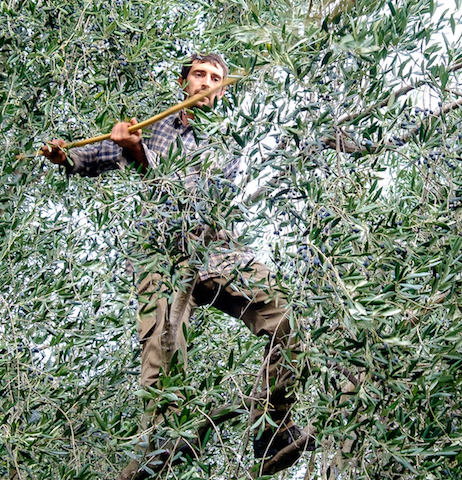
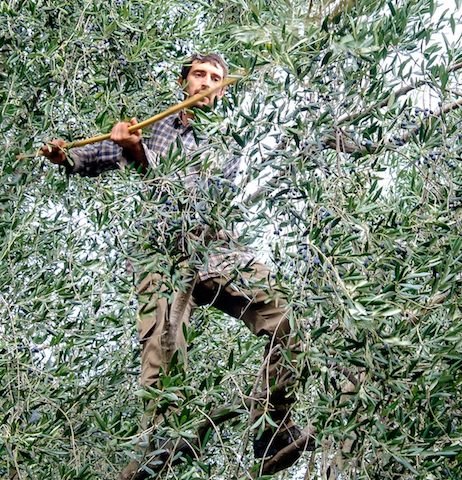
Cut image weight ~40% (16.1MB -> 9.7MB) and add lazy-loading
Photos saved as PNG (card-porceddu, card-pellegrinaggio, moment-11, etc.)
were 5-10x larger than needed for no visual benefit — converted the 9
opaque photo PNGs to quality-82 JPEG. Also re-encoded 10 existing JPGs
that were oversized for their dimensions (card-foraging was 551KB at
768x432), keeping only conversions that actually shrank the file, and
downsized anything wider than 1600px. Added loading="lazy" to the
itinerary day-photos. Verified visually (Playwright, desktop + mobile)
and via local render that nothing broke and no image regressed in
quality.

Faster mobile load matters directly for conversion on a page this
photo-heavy, especially since 0/8 spots are booked and traffic is about
to increase from outreach.

diff --git a/index.html b/index.html
@@ -307,14 +307,14 @@
         <div class="category-header"><h3>Artisan &amp; Food</h3><div class="rule"></div></div>
         <div class="activity-grid">
 
-          <div class="activity-card has-photo" style="--photo:url('images/card-charcuterie.png')" data-activity="Charcuterie Tasting with Emiliano" onclick="toggleCard(this)">
+          <div class="activity-card has-photo" style="--photo:url('images/card-charcuterie.jpg')" data-activity="Charcuterie Tasting with Emiliano" onclick="toggleCard(this)">
             <div class="icon-badge"><svg width="20" height="20"><use href="#icon-flask"/></svg></div>
             <h4>Charcuterie Tasting</h4>
             <p>Taste local, homemade salumi and cured meats with Emiliano, made the traditional way, right here in Blera.</p>
             <span class="season">Year-round</span>
           </div>
 
-          <div class="activity-card has-photo" style="--photo:url('images/moment-11.png')" data-activity="Cheese Making or Tasting with Davide (Civitella Cesi)" onclick="toggleCard(this)">
+          <div class="activity-card has-photo" style="--photo:url('images/moment-11.jpg')" data-activity="Cheese Making or Tasting with Davide (Civitella Cesi)" onclick="toggleCard(this)">
             <div class="icon-badge"><svg width="20" height="20"><use href="#icon-flask"/></svg></div>
             <h4>Cheese Making or Tasting</h4>
             <p>With Davide Paolocci in Civitella Cesi, go hands-on and make your own cheese, or keep it easy with a guided tasting. Your call on how involved you want to be.</p>
@@ -412,7 +412,7 @@
         <div class="category-header"><h3>Festivals &amp; Sagre</h3><div class="rule"></div></div>
         <div class="activity-grid">
 
-          <div class="activity-card has-photo" style="--photo:url('images/card-pellegrinaggio.png')" data-activity="Il Pellegrinaggio (Easter Monday)" onclick="toggleCard(this)">
+          <div class="activity-card has-photo" style="--photo:url('images/card-pellegrinaggio.jpg')" data-activity="Il Pellegrinaggio (Easter Monday)" onclick="toggleCard(this)">
             <div class="icon-badge"><svg width="20" height="20"><use href="#icon-tombpath"/></svg></div>
             <h4>Il Pellegrinaggio</h4>
             <p>A springtime procession through Piazza Santa Maria on Easter Monday, one of Blera's oldest living traditions.</p>
@@ -433,7 +433,7 @@
             <span class="season">Jun 16 to 18</span>
           </div>
 
-          <div class="activity-card has-photo" style="--photo:url('images/card-porceddu.png')" data-activity="Sagra della Coda alla Vaccinara e del Porceddu" onclick="toggleCard(this)">
+          <div class="activity-card has-photo" style="--photo:url('images/card-porceddu.jpg')" data-activity="Sagra della Coda alla Vaccinara e del Porceddu" onclick="toggleCard(this)">
             <div class="icon-badge"><svg width="20" height="20"><use href="#icon-bonfire"/></svg></div>
             <h4>Coda alla Vaccinara &amp; Porceddu</h4>
             <p>A weekend built around two hearty traditions: Roman oxtail stew and Sardinian roast suckling pig, cooked for the whole town.</p>
@@ -447,7 +447,7 @@
             <span class="season">Aug 2 to 4</span>
           </div>
 
-          <div class="activity-card has-photo" style="--photo:url('images/card-strattotartufo.png')" data-activity="Sagra dello Stratto al Tartufo e dello Gnocco al Castrato" onclick="toggleCard(this)">
+          <div class="activity-card has-photo" style="--photo:url('images/card-strattotartufo.jpg')" data-activity="Sagra dello Stratto al Tartufo e dello Gnocco al Castrato" onclick="toggleCard(this)">
             <div class="icon-badge"><svg width="20" height="20"><use href="#icon-bonfire"/></svg></div>
             <h4>Stratto al Tartufo &amp; Gnocco al Castrato</h4>
             <p>Handmade stratti pasta with truffle and gnocchi in castrated-lamb ragù, run by Blera's horse-lovers' association in the main square.</p>
@@ -482,7 +482,7 @@
         <div class="category-header"><h3>Day Trips</h3><div class="rule"></div></div>
         <div class="activity-grid">
 
-          <div class="activity-card has-photo" style="--photo:url('images/card-lagodivico.png')" data-activity="Day Trip: Lago di Vico" onclick="toggleCard(this)">
+          <div class="activity-card has-photo" style="--photo:url('images/card-lagodivico.jpg')" data-activity="Day Trip: Lago di Vico" onclick="toggleCard(this)">
             <div class="icon-badge"><svg width="20" height="20"><use href="#icon-lake"/></svg></div>
             <h4>Lago di Vico</h4>
             <p>A volcanic lake ringed by forest in the Cimini mountains, swim, hike, or just take in the view.</p>
@@ -517,7 +517,7 @@
             <span class="season">Year-round</span>
           </div>
 
-          <div class="activity-card has-photo" style="--photo:url('images/card-termedellatuscia.png')" data-activity="Day Trip: Terme della Tuscia" onclick="toggleCard(this)">
+          <div class="activity-card has-photo" style="--photo:url('images/card-termedellatuscia.jpg')" data-activity="Day Trip: Terme della Tuscia" onclick="toggleCard(this)">
             <div class="icon-badge"><svg width="20" height="20"><use href="#icon-spa"/></svg></div>
             <h4>Terme della Tuscia</h4>
             <p>The Tuscia's thermal springs, from spa resorts to free open-air sulfur pools near Viterbo. Tell us your pace and we'll pick the right one for the day.</p>
@@ -804,7 +804,7 @@
       <div class="calendar-mobile-list fade-in">
 
         <div class="cm-day">
-          <img class="cm-day-photo" src="images/hero.jpg" alt="Arrival in Blera">
+          <img class="cm-day-photo" loading="lazy" src="images/hero.jpg" alt="Arrival in Blera">
           <div class="cm-day-header"><div class="icon-badge"><svg width="14" height="14"><use href="#icon-pin"/></svg></div><div><div class="cm-day-date">Mon &middot; Nov 9</div><div class="cm-day-title">Arrival in Blera</div></div></div>
           <ul class="cm-day-list">
             <li><span class="cm-time-tag">Morning</span>Airport pickup and transfer to Blera.</li>
@@ -814,7 +814,7 @@
         </div>
 
         <div class="cm-day">
-          <img class="cm-day-photo" src="images/card-tombaroli.jpg" alt="Tomb raiding scavenger hunt">
+          <img class="cm-day-photo" loading="lazy" src="images/card-tombaroli.jpg" alt="Tomb raiding scavenger hunt">
           <div class="cm-day-header"><div class="icon-badge"><svg width="14" height="14"><use href="#icon-tombpath"/></svg></div><div><div class="cm-day-date">Tue &middot; Nov 10</div><div class="cm-day-title">Tomb Raider &amp; Tarquinia</div></div></div>
           <ul class="cm-day-list">
             <li><span class="cm-time-tag">Morning</span>Scavenger hunt starting in the medieval village, following clues down into the rock-cut tombs.</li>
@@ -824,7 +824,7 @@
         </div>
 
         <div class="cm-day">
-          <img class="cm-day-photo" src="images/moment-9.jpg" alt="Hand-picking olives">
+          <img class="cm-day-photo" loading="lazy" src="images/moment-9.jpg" alt="Hand-picking olives">
           <div class="cm-day-header"><div class="icon-badge"><svg width="14" height="14"><use href="#icon-leaf"/></svg></div><div><div class="cm-day-date">Wed &middot; Nov 11</div><div class="cm-day-title">Olive Harvest &amp; Thermal Baths</div></div></div>
           <ul class="cm-day-list">
             <li><span class="cm-time-tag">Morning</span>Farmer's breakfast, then hand-picking olives at a local grove.</li>
@@ -834,7 +834,7 @@
         </div>
 
         <div class="cm-day">
-          <img class="cm-day-photo" src="images/card-pasta.jpg" alt="Hands-on pasta making">
+          <img class="cm-day-photo" loading="lazy" src="images/card-pasta.jpg" alt="Hands-on pasta making">
           <div class="cm-day-header"><div class="icon-badge"><svg width="14" height="14"><use href="#icon-hammer"/></svg></div><div><div class="cm-day-date">Thu &middot; Nov 12</div><div class="cm-day-title">Olive Mill &amp; Pasta Making</div></div></div>
           <ul class="cm-day-list">
             <li><span class="cm-time-tag">Morning</span>Frantoio visit for the oil pressed from yesterday's harvest.</li>
@@ -844,7 +844,7 @@
         </div>
 
         <div class="cm-day">
-          <img class="cm-day-photo" src="images/card-sangiovenale.jpg" alt="San Giovenale hike and panonto">
+          <img class="cm-day-photo" loading="lazy" src="images/card-sangiovenale.jpg" alt="San Giovenale hike and panonto">
           <div class="cm-day-header"><div class="icon-badge"><svg width="14" height="14"><use href="#icon-mountain"/></svg></div><div><div class="cm-day-date">Fri &middot; Nov 13</div><div class="cm-day-title">San Giovenale Hike &amp; Panonto</div></div></div>
           <ul class="cm-day-list">
             <li><span class="cm-time-tag">Morning</span>Guided hike to the Etruscan site of San Giovenale.</li>
@@ -854,7 +854,7 @@
         </div>
 
         <div class="cm-day">
-          <img class="cm-day-photo" src="images/card-cantinefestival.jpg" alt="Festa delle Cantine">
+          <img class="cm-day-photo" loading="lazy" src="images/card-cantinefestival.jpg" alt="Festa delle Cantine">
           <div class="cm-day-header"><div class="icon-badge"><svg width="14" height="14"><use href="#icon-festival"/></svg></div><div><div class="cm-day-date">Sat &middot; Nov 14</div><div class="cm-day-title">Cantine Festival</div></div></div>
           <ul class="cm-day-list">
             <li><span class="cm-time-tag">Morning</span>A slow morning.</li>
@@ -864,7 +864,7 @@
         </div>
 
         <div class="cm-day">
-          <img class="cm-day-photo" src="images/moment-1.jpg" alt="The vicoli of Blera">
+          <img class="cm-day-photo" loading="lazy" src="images/moment-1.jpg" alt="The vicoli of Blera">
           <div class="cm-day-header"><div class="icon-badge"><svg width="14" height="14"><use href="#icon-pin"/></svg></div><div><div class="cm-day-date">Sun &middot; Nov 15</div><div class="cm-day-title">Departure</div></div></div>
           <ul class="cm-day-list">
             <li><span class="cm-time-tag">Morning</span>One last breakfast together.</li>
@@ -881,8 +881,8 @@
         <div class="fg-photo" style="background-image:url('images/moment-6.jpg')"><span class="fg-caption">Festa delle Cantine, the cellars open</span></div>
         <div class="fg-photo" style="background-image:url('images/card-oliveoil.webp')"><span class="fg-caption">Fresh-pressed olive oil at the frantoio</span></div>
         <div class="fg-photo" style="background-image:url('images/card-blerachurch.webp')"><span class="fg-caption">The piazza in Blera</span></div>
-        <div class="fg-photo" style="background-image:url('images/card-termedellatuscia.png')"><span class="fg-caption">Tuscia Terme, at sunset</span></div>
-        <div class="fg-photo" style="background-image:url('images/card-pastaeggs.png')"><span class="fg-caption">Fresh pasta, made by hand</span></div>
+        <div class="fg-photo" style="background-image:url('images/card-termedellatuscia.jpg')"><span class="fg-caption">Tuscia Terme, at sunset</span></div>
+        <div class="fg-photo" style="background-image:url('images/card-pastaeggs.jpg')"><span class="fg-caption">Fresh pasta, made by hand</span></div>
       </div>
 
       <div class="festival-book fade-in" id="festival-book">

diff --git a/style.css b/style.css
@@ -469,8 +469,8 @@
     .moment-7 { grid-row: 4; grid-column: 2; background-image: url('images/moment-7.jpg'); }
     .moment-8 { grid-row: 4; grid-column: 3; background-image: url('images/moment-8.jpg'); }
     .moment-10 { grid-row: 5; grid-column: 2 / 4; background-image: url('images/moment-10.jpg'); }
-    .moment-11 { grid-row: 6; grid-column: 2; background-image: url('images/moment-11.png'); }
-    .moment-12 { grid-row: 6; grid-column: 3; background-image: url('images/moment-12.png'); }
+    .moment-11 { grid-row: 6; grid-column: 2; background-image: url('images/moment-11.jpg'); }
+    .moment-12 { grid-row: 6; grid-column: 3; background-image: url('images/moment-12.jpg'); }
     .moment-13 { grid-row: 7; grid-column: 2; background-image: url('images/moment-13.jpg'); }
     .moment-14 { grid-row: 7; grid-column: 3; background-image: url('images/moment-14.jpg'); }
     .moment-caption {

diff --git a/CLAUDE.md b/CLAUDE.md
@@ -43,7 +43,7 @@ Every section uses CSS `background-image: url('images/X.jpg')` (not `<img>` tags
 - `philosophy-bg.jpg` — background for the "Why we stay small" section
 - `moment-1.jpg` through `moment-14.jpg` — the main "A Few Moments" gallery, laid out as **two repeating 6-tile mosaic blocks** (each with its own tall anchor image spanning 3 grid rows) plus 2 extra tiles appended to block 2's row — see `.moments-grid` CSS. If adding more, either start a third mosaic block or extend the last block's anchor row-span; don't stretch a single anchor image across many rows, it looks distorted.
 - `trip-1.jpg` through `trip-6.jpg` — "Worth the Detour" day-trips gallery (Caprarola, Villa Lante, Viterbo, Tarquinia, Viterbo again, Civita di Bagnoregio)
-- `card-foraging.jpg`, `card-charcuterie.png`, `card-nonne.jpg`, `card-sangiovenale.jpg`, `card-etruscantombs.jpg` — activity-card hover-reveal photos (see below)
+- `card-foraging.jpg`, `card-charcuterie.jpg`, `card-nonne.jpg`, `card-sangiovenale.jpg`, `card-etruscantombs.jpg` — activity-card hover-reveal photos (see below)
 
 **Activity card hover reveal:** cards with a matching photo get `class="activity-card has-photo" style="--photo:url('images/X.jpg')"`. On hover, a darkened photo fades in behind the text (see `.activity-card.has-photo::before`) instead of showing a static thumbnail — deliberately avoids a "menu with pictures" look. As of 2026-07-19, every activity card has one — the last 5 (football, Pellegrinaggio, Porceddu, Stratto al Tartufo, Lago di Vico) plus Terme della Tuscia and Wherever You Want to Go were filled in this session.
 
